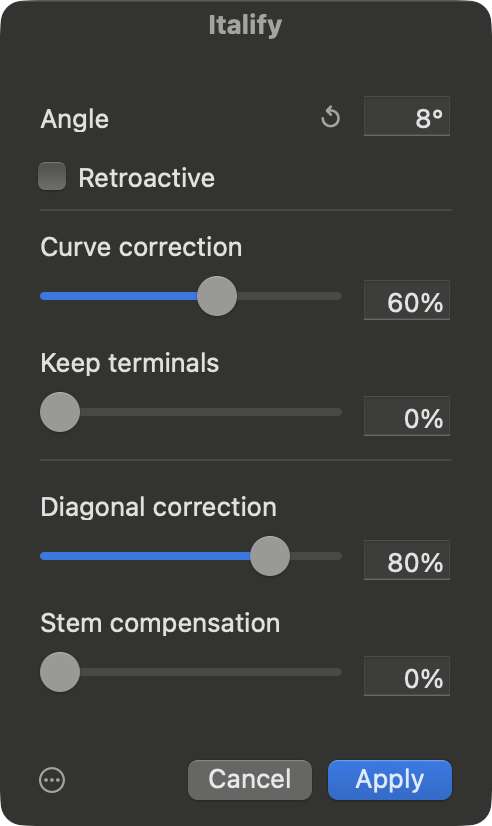
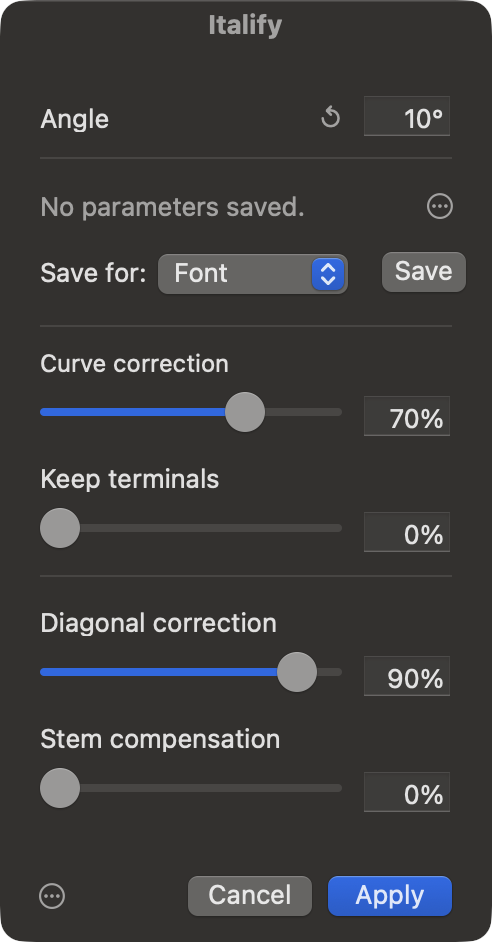
Italify docs updates

diff --git a/public/italify/content/handbook.md b/public/italify/content/handbook.md
@@ -49,9 +49,8 @@ caption: After installing: the filter, with the tagger in the toolbar.
 Choose *Filter → Italify* with one or more glyphs open in Edit View. You can adjust the parameters with the live preview showing the result you get when pressing *Apply*.
 ```annotated
 img: images/window.png
-alt: The Italify filter dialogue with the angle field, four correction sliders and the Retroactive checkbox.
+alt: The Italify filter dialogue with the angle field and four correction sliders.
 note 15.5%: **Angle** – the slant to apply. [[↺]] reads the current master’s italic angle.
-note 22.5%: **Retroactive** – re-correct already-slanted outlines.
 note 34%: **Curve correction** – rebalances curves against the shear’s distortion.
 note 48%: **Keep terminals** – preserves the cut of stroke endings.
 note 65.5%: **Diagonal correction** – corrects tagged diagonal stems’ width and angle.
@@ -80,12 +79,6 @@ Controls how much of the width change that slanting causes in stems is compensat
 #### Keep terminals | 0–100% | default 0%
 
 Governs the straight terminals at stroke ends – the cut of an *e*, *c* or *s*, for example. At 0%, a terminal is simply slanted. At 100%, it is rotated back against the rotation the correction gave the adjoining curves, preserving the original cut relative to the stroke. Terminals are detected automatically from the outline as line segments connecting two curves going in the same direction. This means it will not detect terminals designed using open corners.
-
-#### Retroactive | checkbox | default off
-
-For outlines that are **already slanted** – say, a mechanically obliqued master you inherited, which you would like to brush up now that you have Italify at your disposal.
-
-**Important:** Nodes are expected to be at **slanted extremes.**
 
 ### Saving parameters {#saving-parameters}
 
@@ -122,7 +115,7 @@ You can keep your sources upright and let Italify run when instances are generat
 Add a `Filter` custom parameter to an instance (Font Info → Exports) with a value like:
 
 ```
-Italify;angle:9.5;curveCorrection:0.8;diagonalCorrection:0.9;stemCompensation:1;keepTerminals:0;retroactiveCorrection:0;diagonalStemsOnly:1
+Italify;angle:9.5;curveCorrection:0.8;diagonalCorrection:0.9;stemCompensation:1;keepTerminals:0;diagonalStemsOnly:1
 ```
 
 You don’t need to type this: open the filter dialogue, set the parameters the way you want them, and choose *Copy Filter Parameter* from the dialogue’s gear menu – filter parameter lands on your clipboard ready to paste into the instance. All arguments are optional and named, so partial parameters like `Italify;angle:10` work and fall back to the defaults above.
@@ -173,12 +166,12 @@ desc: The popover that opens from a group row: a parameter matrix (rows Font +
 caption: A group’s popover: its parameter matrix, its members, and group actions.
 ```
 
-You **edit a group’s parameters from the filter dialogue**, not the palette. With a glyph that belongs to a group active, the **Save for:** picker gains two extra entries:
+You **edit a group’s parameters from the filter dialogue**, not the palette. With a glyph that belongs to a group active, the **Save for:** picker gains two extra entries, each labelled with the group’s own name so you can see exactly which group you are saving for (e.g. *round (font)* / *round (master)* for a group named “round”):
 
-- **Group (font)** – saves the value for *every* master of the group at once (e.g. curve correction = 0 across the whole font).
-- **Group (master)** – saves it for the current master only, overriding the all-masters value there.
+- **\<name\> (font)** – saves the value for *every* master of the group at once (e.g. curve correction = 0 across the whole font).
+- **\<name\> (master)** – saves it for the current master only, overriding the all-masters value there.
 
-Both are disabled unless the active glyph is in a group. The ⋯ actions menu likewise gains matching *Clear ▸ Group (font) / Group (master)* entries.
+Both are disabled unless the active glyph is in a group (where they fall back to the generic *Group (font)* / *Group (master)* labels). The ⋯ actions menu likewise gains matching *Clear ▸ \<name\> (font) / \<name\> (master)* entries, and the all-masters clear warning names the group.
 
 ## The tagger {#tagger}
 
@@ -294,7 +287,7 @@ Click an anchor to select it – the rest of the stem and tag overlays fade to g
 
 Anchors and stem selection are mutually exclusive: while a stem is selected the anchors grey out and stop responding to clicks, so a click lands on the stem’s own controls instead – handy when an anchor sits right over the flip-axis button. Click empty space to deselect the stem and the anchors are live again. (The [[⌘A]] cycle’s anchor phases are the exception, showing stems and anchors selected together.)
 
-A linked anchor renders **purple** instead of blue, and each link draws as a light-blue dotted line to its node. At correction time the anchor is shifted horizontally by **half the average movement** of the node(s) it is linked to, so at 0 % correction it lands exactly where a plain slant would put it, and with correction it tracks the node(s) it links to. Its vertical position is left untouched.
+A linked anchor renders **purple** instead of blue, and each link draws as a light-blue dotted line to its node. At correction time the anchor is shifted horizontally by the **average of its linked nodes' weighted movements**: a node sitting on only straight segments carries the anchor **100 %** of the way it moves, while a node with a curve on either side carries it **50 %**. So an anchor linked to a single line-to-line node tracks that node exactly, one linked to a curve node moves half as far, and one linked to both moves by the average of the two. At 0 % correction nothing moves, so the anchor lands exactly where a plain slant would put it. Its vertical position is left untouched.
 
 Copy / Paste / Propagate / Clear for anchor links live in the right-click *Anchors* section (see [below](#copy-paste)) and the [Glyph → Italify menu](#glyph-menu).
 
@@ -351,8 +344,8 @@ img: images/preview.png
 tag: Screenshot – live preview HUD
 desc: The tagger’s Space+Shift preview: the filled, italified outline of a
   glyph with the floating parameter HUD below the baseline listing angle,
-  curve correction, keep terminals, diagonal correction, stem compensation
-  and retroactive. All node/stem chrome hidden (that is what the mode does),
+  curve correction, keep terminals, diagonal correction, and stem
+  compensation. All node/stem chrome hidden (that is what the mode does),
   so the shot reads as “finished letter plus a small parameter readout”.
 caption: Hold Space + Shift in the tagger for a live preview of the current parameters.
 ```
@@ -362,8 +355,8 @@ caption: Hold Space + Shift in the tagger for a live preview of the current para
 The tagger only ever sees the single active layer. For batch work there is a second surface: an **Italify** submenu under the **Glyph** menu that runs the bulk verbs across *every selected glyph and layer at once*. Select the glyphs you want to treat (in Font View or Edit View), then:
 
 - **Auto-Tag Stems** – runs the auto-tagger on every selected layer (additive; existing stems are left untouched).
-- **Propagate to all Masters → Stems / Tags / Anchor Links** – mirrors the chosen metadata from each selected layer onto its glyph’s other compatible masters.
-- **Clear all → Stems / Tags / Anchor Links** – wipes the chosen userData on every selected layer. Hold [[⌥]] for the “… in all Masters” variant.
+- **Propagate to all Masters → Stems / Tags / Anchor Links / All** – mirrors the chosen metadata from each selected layer onto its glyph’s other compatible masters. *All* sends every kind at once.
+- **Clear all → Stems / Tags / Anchor Links / All** – wipes the chosen userData on every selected layer (*All* wipes every kind at once). Hold [[⌥]] for the “… in all Masters” variant.
 
 This is the only way to tag or propagate across many glyphs in one go – the tagger’s equivalent commands always act on the layer in front of you.
 
@@ -372,7 +365,7 @@ img: images/glyphMenu.png
 tag: Screenshot – Glyph → Italify menu
 desc: The macOS menu bar with the Glyph menu open and the Italify submenu
   expanded, showing Auto-Tag Stems and the Propagate to all Masters and
-  Clear all submenus with their Stems / Tags / Anchor Links entries. A
+  Clear all submenus with their Stems / Tags / Anchor Links / All entries. A
   multiple-glyph selection is visible behind it in Font View.
 caption: The Glyph → Italify menu runs the bulk verbs across every selected glyph.
 ```

diff --git a/public/italify/content/index.md b/public/italify/content/index.md
@@ -105,8 +105,8 @@ img: images/preview.png
 tag: Screenshot – live preview HUD
 desc: The tagger’s Space+Shift preview: the filled, italified outline of a
   glyph with the floating parameter HUD below the baseline listing angle,
-  curve correction, keep terminals, diagonal correction, stem compensation
-  and retroactive. All node/stem chrome hidden (that is what the mode does),
+  curve correction, keep terminals, diagonal correction, and stem
+  compensation. All node/stem chrome hidden (that is what the mode does),
   so the shot reads as “finished letter plus a small parameter readout”.
 caption: Hold Space + Shift in the tagger for a live preview of the current parameters.
 ```

diff --git a/public/italify/content/python-api.md b/public/italify/content/python-api.md
@@ -405,6 +405,7 @@ Each returns an [`ItalifyResult`](#results) and keeps the underlying verb’s `a
 | `.set_hinge_corners(a, b, on=True, all_masters=False)` | pin (or clear) two diagonally-opposed [hinge](handbook#hinge-corners) corners |
 | `.add_extras(nodes, all_masters=False)` | add nodes as [extras](handbook#extras) |
 | `.remove_extras(nodes, all_masters=False)` | remove nodes from whichever stem owns them |
+| `.propagate()` | mirror this stem to the glyph’s compatible masters (see [`propagate_stems`](#bulk); no `all_masters` – inherently all-masters) |
 | `.delete(all_masters=False)` | remove the stem’s tags |
 
 ```python
@@ -463,7 +464,7 @@ Toggle [No Curve Correction](handbook#node-flags) on the segment between two nod
 
 *Returns:*
 
-- `ItalifyResult`
+- `ItalifyResult` – refuses with [`notCurveSegment`](#refusals) unless `node_a` and `node_b` are the on-curve endpoints of the same curve segment (at least one off-curve between them), the same precondition the tool's own Toggle No Curve Correction verb enforces
 
 ## Anchor links {#anchor-links}
 
@@ -687,3 +688,4 @@ When a write is refused, `result.reason` is one of these machine codes (`result.
 | `lockedHandle` | Those handles stay extras while both ends of their curve belong to the stem. |
 | `notFound` | No matching stem, anchor, or node was found on the layer. |
 | `trialBlocked` | The action requires a licensed copy of Italify. |
+| `notCurveSegment` | The two nodes must be on-curve endpoints of the same curve segment, with at least one off-curve between them. |